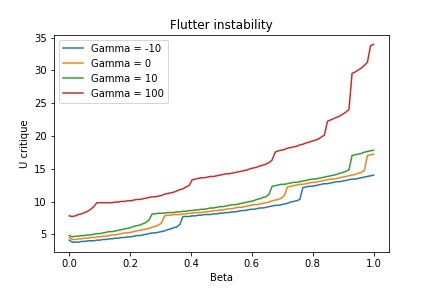
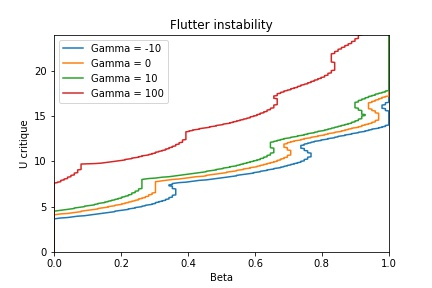
MAJ Flutter sur beta

diff --git a/Flutter_Cantilevered_Pipe.py b/Flutter_Cantilevered_Pipe.py
@@ -68,8 +68,7 @@ def dsr(s,r):
     else:
         return (4*(LAMBDA[r]*sigma(r)-LAMBDA[s]*sigma(s)+2)*(-1)**(r+s))/(1-(LAMBDA[s]/LAMBDA[r])**4)-((3+(LAMBDA[s]/LAMBDA[r])**4)/(1-((LAMBDA[s]/LAMBDA[r])**4)))*bsr(s,r)                                                                                                                                               
 
-U = np.linspace(0,4,40)
-u_array = (M/(E*I))**0.5*L*U
+
 u_array = np.linspace(0,50,1000)
 
 
@@ -86,13 +85,13 @@ Delta = np.zeros((N,N))
 for i in range(N):
     Delta[i,i] = LAMBDA[i]**4
 
-u_critique = np.zeros((len(array_gamma),len(array_beta)))
+b_critique = np.zeros((len(array_gamma),len(u_array)))
 
 for g in range(len(array_gamma)):
-    for b in range(len(array_beta)):
-        beta = array_beta[b]
+    for i in range(len(u_array)):
+        u = u_array[i]
         gamma = array_gamma[g]
-        u = u_array[0]
+        beta = array_beta[-1]
         MM = np.eye(N)
         C_g = 2*beta**0.5*u*B
         K = Delta + gamma*B + (u**2-gamma)*C + gamma*D
@@ -105,8 +104,8 @@ for g in range(len(array_gamma)):
         #     print("Oui")
         #     u_critique[g,b] = u
         
-        for i in range(1,len(u_array)):
-            u = u_array[i]
+        for b in range(1,len(array_beta)):
+            beta = array_beta[len(array_beta)-b]
             MM = np.eye(N)
             C_g = 2*beta**0.5*u*B
             K = Delta + gamma*B + (u**2-gamma)*C + gamma*D
@@ -117,13 +116,15 @@ for g in range(len(array_gamma)):
             
             Arg = np.argmin((-1j*eigenValues).imag)
                 
-            if (-1j*eigenValues).imag[Arg] < -0.1 and u_critique[g,b] == 0 and (-1j*eigenValues).real[Arg] != 0:
-                u_critique[g,b] = u
+            if (-1j*eigenValues).imag[Arg] < -0.01 and b_critique[g,i] == 0 and (-1j*eigenValues).real[Arg] != 0:
+                b_critique[g,i] = beta
                 
-mpl.plot(array_beta,u_critique[0,:],label='Gamma = -10')
-mpl.plot(array_beta,u_critique[1,:],label='Gamma = 0')
-mpl.plot(array_beta,u_critique[2,:],label='Gamma = 10')
-mpl.plot(array_beta,u_critique[3,:],label='Gamma = 100')
+mpl.xlim((0,1))
+mpl.ylim((0,24))                
+mpl.plot(b_critique[0,:],u_array,label='Gamma = -10')
+mpl.plot(b_critique[1,:],u_array,label='Gamma = 0')
+mpl.plot(b_critique[2,:],u_array,label='Gamma = 10')
+mpl.plot(b_critique[3,:],u_array,label='Gamma = 100')
 mpl.legend()
 mpl.xlabel("Beta")
 mpl.ylabel("U critique")
